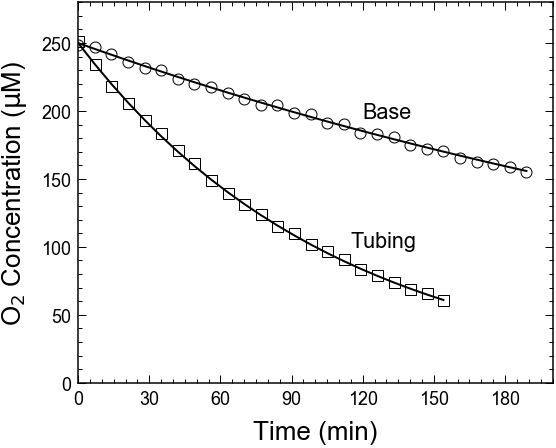
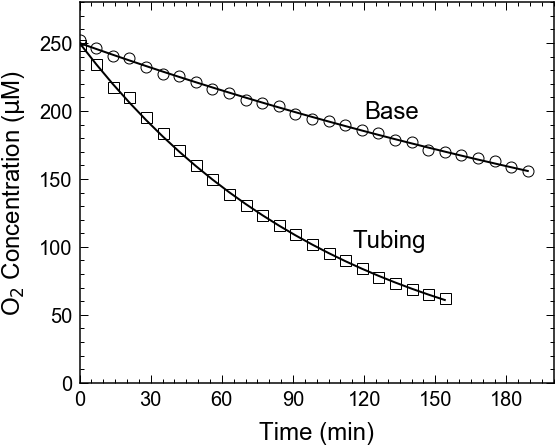
README: Add style load code; revise mpl image

diff --git a/README.md b/README.md
@@ -28,6 +28,9 @@ import matplotlib.pyplot as plt
 from matplotlib.ticker import MultipleLocator
 
 
+plt.style.use(str(Path('C:\\') / ... / 'kaleida.mplstyle'))
+
+
 xdata1 = np.arange(0, 193, 7)
 ydata1 = 250 * np.exp(-0.15 * (xdata1 / 60))
 ydata1_noisy = np.array([(0.99 + 0.02 * random()) * _ for _ in ydata1])
